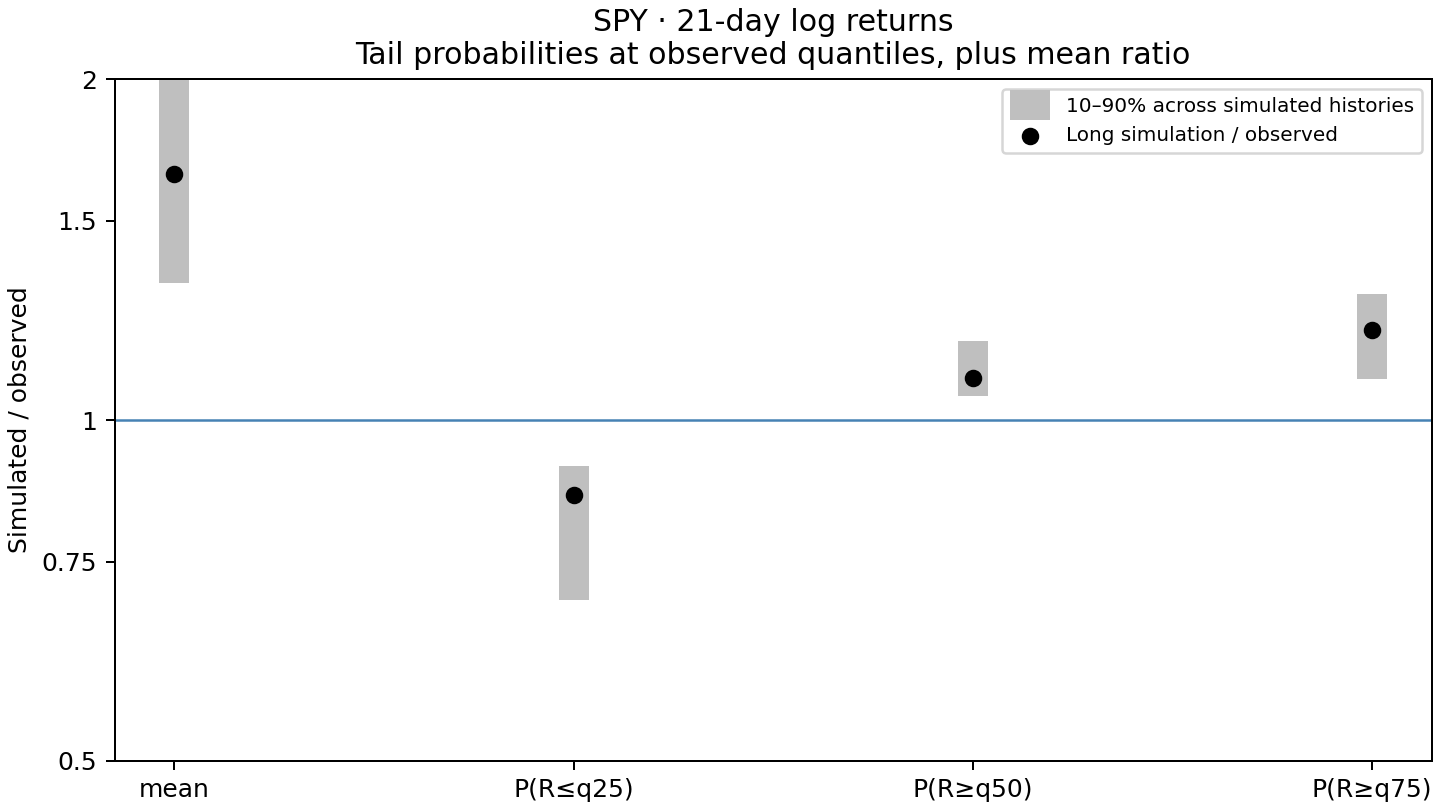
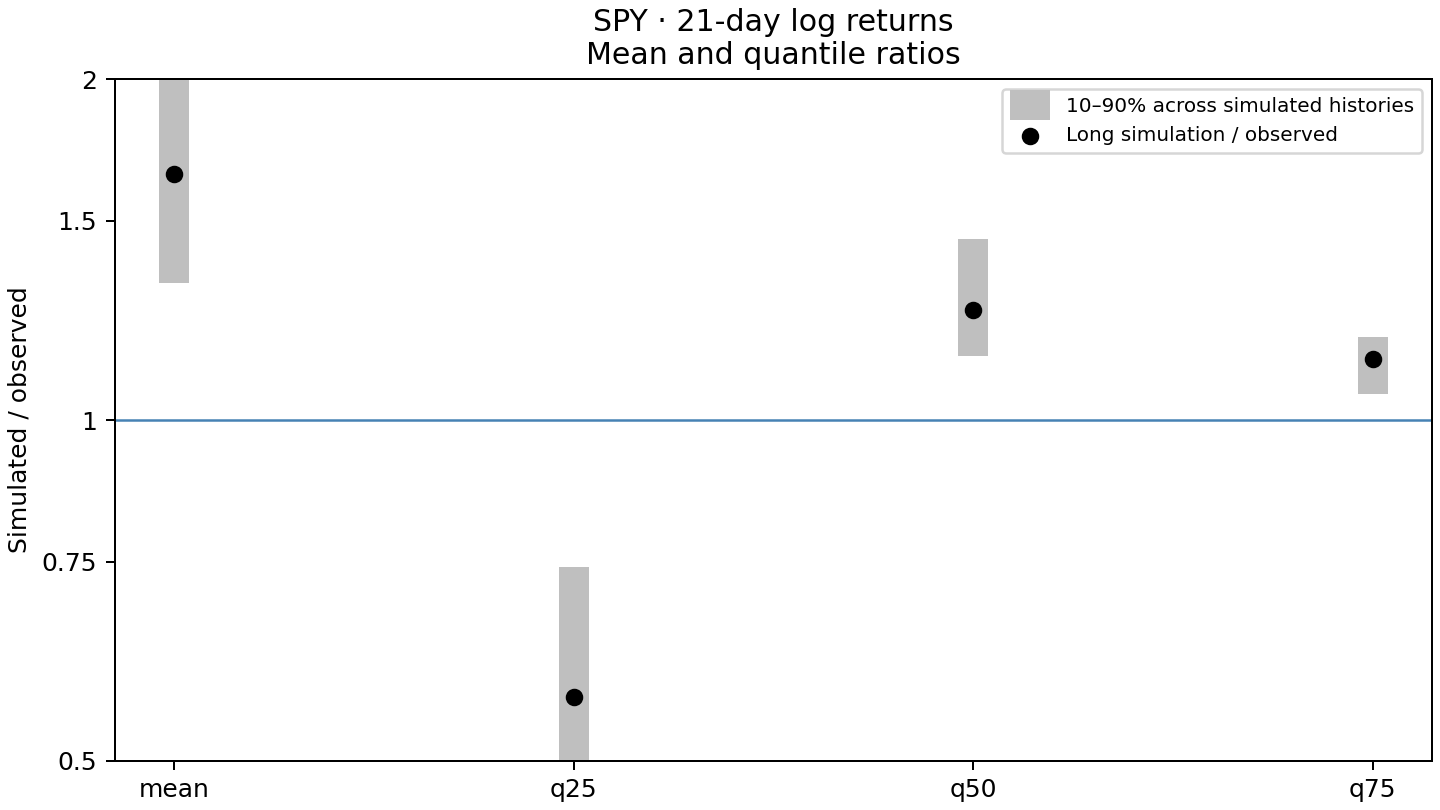
upd

diff --git a/play.py b/play.py
@@ -14,7 +14,7 @@ from scipy.stats import t
 
 N_TRIALS, N_SIM, SEED = 100, 100_000, 0
 NAMES = ("mu", "omega", "beta", "alpha", "gamma", "nu")
-STATS = ("mean", "P(R≤q25)", "P(R≥q50)", "P(R≥q75)")
+STATS = ("mean", "q25", "q50", "q75")
 BOUNDS = ((-2, 2), (-10, 10), (.0001, .999), (0, 2), (0, 2), (2.05, 100))
 
 
@@ -53,12 +53,10 @@ def simulate(q, z, burn, cap):
     return r
 
 
-def moments(r, levels=None):
+def moments(r):
     s = np.r_[0., np.cumsum(r)]
     x = s[21:] - s[:-21]
-    tails = np.quantile(x, [.25, .5, .75]) if levels is None else [
-        np.mean(x <= levels[0]), np.mean(x >= levels[1]), np.mean(x >= levels[2])]
-    result = np.r_[x.mean(), tails]
+    result = np.r_[x.mean(), np.quantile(x, [.25, .5, .75])]
     assert np.all(np.isfinite(result))
     return result
 
@@ -83,13 +81,12 @@ def main():
     q = min(fits, key=lambda f: f.fun).x
     cap = t.ppf(1 - 1 / (20 * 262), q[5]) * np.sqrt((q[5] - 2) / q[5])
     burn = max(1000, math.ceil(math.log(1e-10) / math.log(q[2])))
-    levels = moments(r)[1:]  # Fixed observed thresholds, lower tail at q25, upper at q50/q75.
 
     def sample(n, rng):
         z = rng.standard_t(q[5], n + burn) * np.sqrt((q[5] - 2) / q[5])
-        return moments(center + scale * simulate(q, z, burn, cap), levels)
+        return moments(center + scale * simulate(q, z, burn, cap))
 
-    rng, real = np.random.default_rng(SEED + 1), moments(r, levels)
+    rng, real = np.random.default_rng(SEED + 1), moments(r)
     trials = np.array([sample(len(r), rng) for _ in range(N_TRIALS)])
     point = sample(N_SIM, np.random.default_rng(SEED))
     widths = np.diff(np.quantile(trials, [.1, .9], axis=0), axis=0)[0]
@@ -106,15 +103,15 @@ def main():
     out.mkdir(exist_ok=True)
     with (out / "moments.csv").open("w") as f:
         w = csv.writer(f)
-        w.writerow(["statistic", "threshold", "observed", "simulated", "ratio", "q10", "q90"])
-        w.writerows(zip(STATS, ["", *levels], real, point, ratios, lo, hi))
+        w.writerow(["statistic", "observed", "simulated", "ratio", "q10", "q90"])
+        w.writerows(zip(STATS, real, point, ratios, lo, hi))
     fig, ax = plt.subplots(figsize=(8, 4.5), layout="constrained")
     ax.vlines(range(4), lo, hi, color=".75", linewidth=12, label="10–90% across simulated histories")
     ax.scatter(range(4), ratios, color="black", zorder=3, label="Long simulation / observed")
     ax.axhline(1, color="steelblue", linewidth=1)
     ax.set(xticks=range(4), xticklabels=STATS, yscale="log", ylim=(.5, 2),
            ylabel="Simulated / observed",
-           title="SPY · 21-day log returns\nTail probabilities at observed quantiles, plus mean ratio")
+           title="SPY · 21-day log returns\nMean and quantile ratios")
     ax.set_yticks([.5, .75, 1, 1.5, 2], labels=["0.5", "0.75", "1", "1.5", "2"])
     ax.minorticks_off()
     ax.legend(fontsize=8)

diff --git a/README.md b/README.md
@@ -5,8 +5,8 @@
     mₜ = βmₜ₋₁ + α(|zₜ₋₁| − E|zₜ|) − γzₜ₋₁
     zₜ ∼ √((ν−2)/ν) Tν, iid
 
-Большие относительные ошибки по моментам: mean, median и P(x<0.25), P(x>0.75). Серый диапазон -
-неопределенность q10-q90 через параметрический бустрап модели.
+Отношения модель/данные для среднего и квантилей q25, q50, q75.
+Серый диапазон — q10–q90 отношений по симуляциям модели.
 
 ![Model diagnostics, simulated/observed ratios with 10–90% bands](results/moments.png)
 
@@ -21,9 +21,13 @@
 All code in play.py, settings at the top. Python 3.10–3.13.
 Daily MLE only, first 91 calendar days used for filter warmup.
 
-Overlapping 21-day log-return sums. Plot simulated/observed ratios for the mean and tail
-probabilities at fixed observed quantiles, P(R≤q25), P(R≥q50), P(R≥q75).
-Observed probabilities are measured from data, approximately 0.25, 0.5, 0.25.
+Overlapping 21-day log-return sums. Plain mean and quantile ratios, without centering.
+
+    mean_ratio = mean_sim / mean_obs
+    quantile_ratio[p] = Q_sim(p) / Q_obs(p), p = 0.25, 0.5, 0.75
+
+Ratios are unstable near a zero observed mean or quantile.
+Negative ratios fall outside the logarithmic plot.
 10–90% bands across 100 simulated histories of observed length, fitted parameters fixed.
 Point estimates from a separate 100,000-day simulation.
 Simulation clips standardized shocks at p and 1−p quantiles, p=1/(20×262) per tail,
